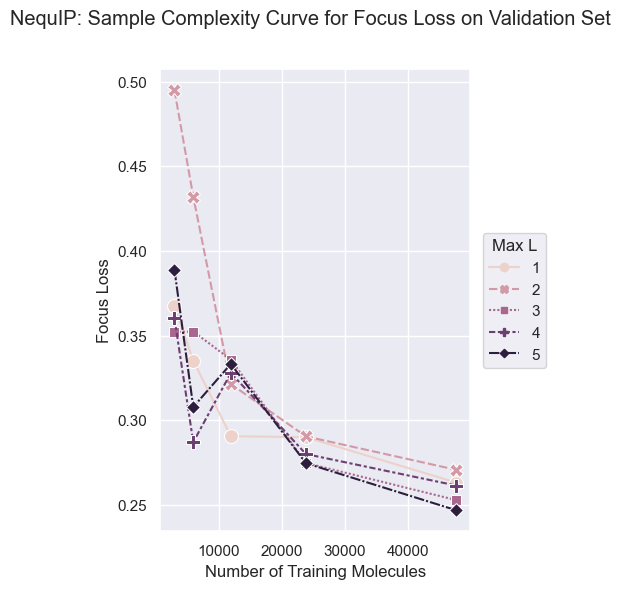
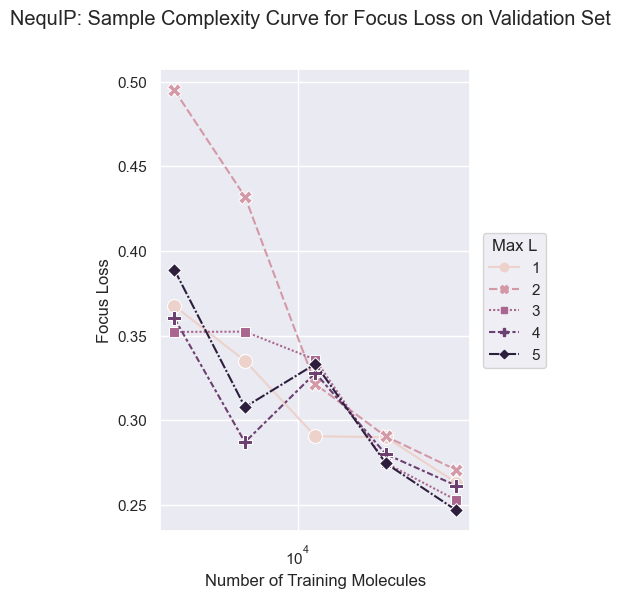
Latest analyses.

diff --git a/analyses/generate_plots.py b/analyses/generate_plots.py
@@ -273,7 +273,7 @@ def plot_sample_complexity_curves(
         )
 
         # Use log-log scale.
-        # ax.set_xscale("log")
+        ax.set_xscale("log")
         # ax.set_yscale("log")
 
         # Extract results for this model.
@@ -305,7 +305,7 @@ def plot_sample_complexity_curves(
         # Axes limits.
         min_y = results[split][metric].min()
         max_y = results[split][metric].max()
-        # ax.set_ylim(max(1e-9, min_y - 0.2), max_y + 0.2)
+        # ax.set_ylim(max(1e-2, min_y - 0.2), max_y + 0.2)
         # ax.set_yticks(np.arange(1, 10))
         # ax.set_yticklabels(np.arange(1, 10))
         # ax.set_xticks([2000, 4000, 8000, 16000, 32000, 64000])

diff --git a/analyses/generate_molecules.py b/analyses/generate_molecules.py
@@ -48,8 +48,8 @@ def generate_molecules(
     model, params, config = analysis.load_model_at_step(
         workdir, step, run_in_evaluation_mode=True
     )
-    logging.info(config.to_dict())
     apply_fn = jax.jit(model.apply)
+    logging.info(config.to_dict())
 
     # Create output directories.
     step_name = "step=best" if step == -1 else f"step={step}"
